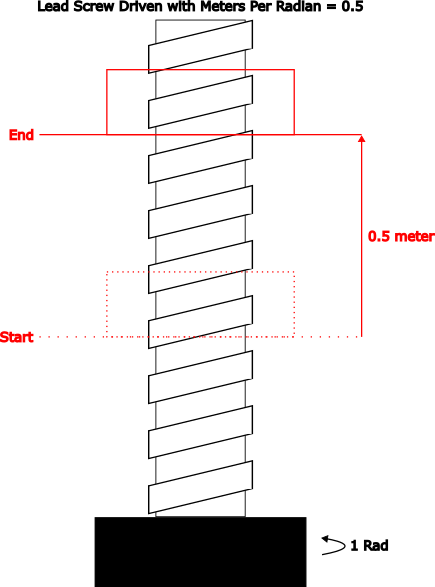
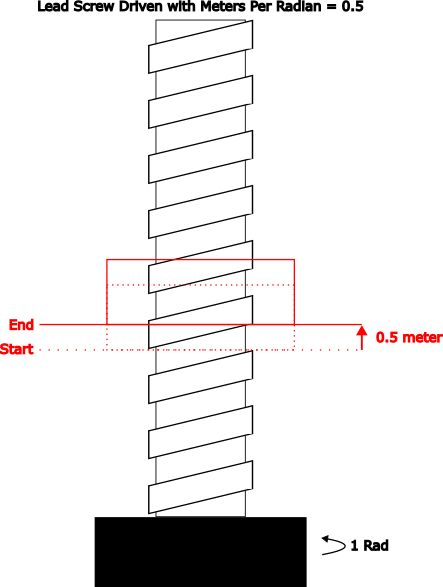
updated images. updated a wrong unit

Changed region(s): [[0.0, 0.0, 1.0, 0.8893], [0.6874, 0.8586, 0.8966, 1.0], [0.2092, 0.8893, 0.2391, 1.0]]

diff --git a/docs/manual/manual_angle_control_mechanisms.rst b/docs/manual/manual_angle_control_mechanisms.rst
@@ -328,7 +328,7 @@ of the module.
      - .. image:: ../_static/manual_images/angle_control/lead_screw_example.png
 
 This movement could be accomplished by setting *Control Angular Displacement* to 1 rad, or by setting Meters Per 
-Radian to 0.5 rad and setting *Control Linear Displacement* to 0.5m.
+Radian to 0.5 and setting *Control Linear Displacement* to 0.5m.
 
 Additionally, you can configure *Meters Per Radian* to properly drive a gear box. With a 5:1 gear ratio, for example, you may change the 
 *Meters Per Radian* parameter found in :ref:`the Multi Turn Angle Control Client <multi_turn_table>` to 1/5. When you command Control Linear Displacement to 
